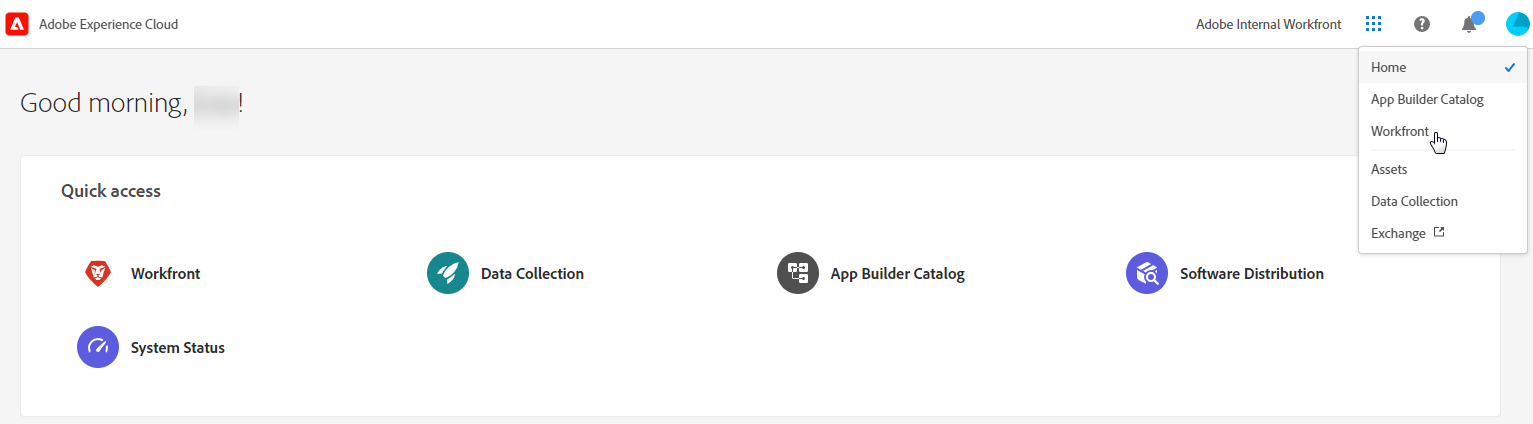
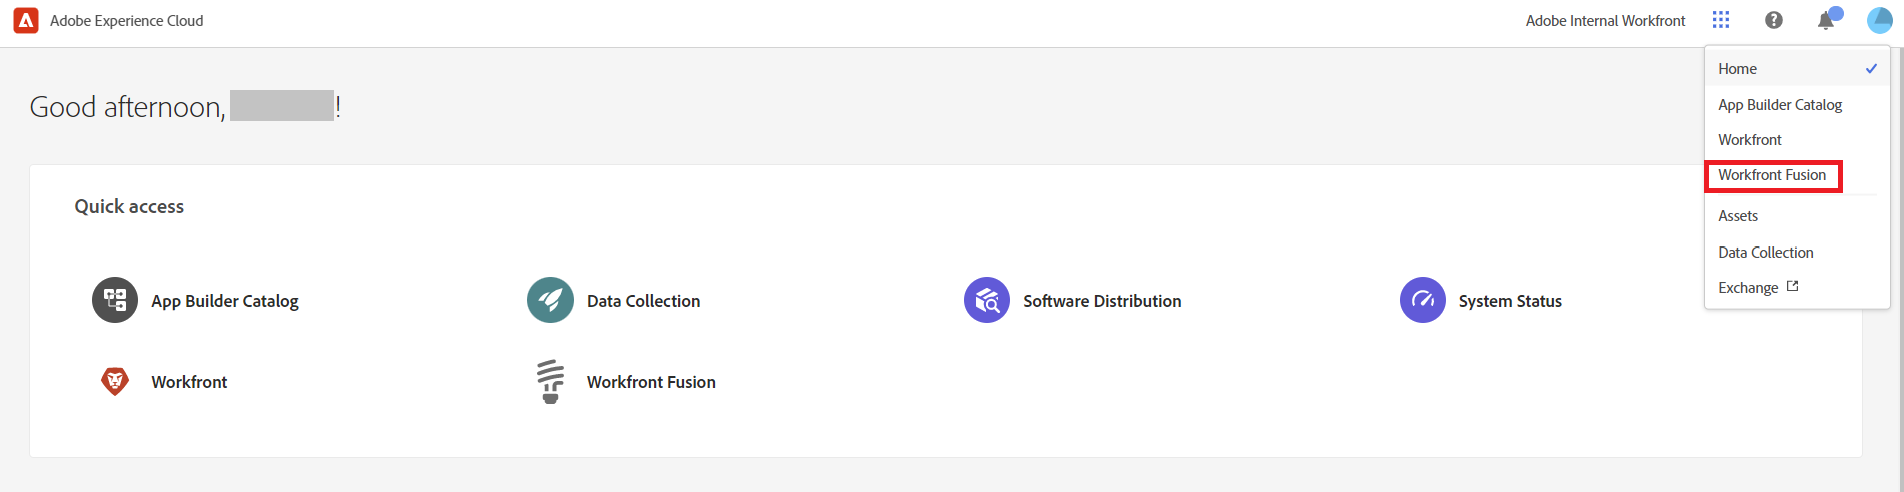
Working on article

diff --git a/help/quicksilver/workfront-fusion/fusion-in-admin-console/fusion-unified-experience.md b/help/quicksilver/workfront-fusion/fusion-in-admin-console/fusion-unified-experience.md
@@ -20,21 +20,28 @@ You must have the following access to perform the steps in this article:
  <col> 
  <tbody> 
   <tr> 
-   <td role="rowheader"><strong>Adobe Workfront plan*</strong></td> 
-   <td> <p>Any</p> </td> 
+   <td role="rowheader">Adobe Workfront plan*</td> 
+   <td> <p>Pro or higher</p> </td> 
+  </tr> 
+  <tr data-mc-conditions=""> 
+   <td role="rowheader">Adobe Workfront license*</td> 
+   <td> <p>Plan, Work</p> </td> 
   </tr> 
   <tr> 
-   <td role="rowheader"><strong>Adobe Workfront license*</strong></td> 
-   <td> <p>Request or higher</p> </td> 
+   <td role="rowheader">Adobe Workfront Fusion license**</td> 
+   <td> <p>Workfront Fusion for Work Automation and Integration </p> <p>Workfront Fusion for Work Automation </p>  </td> 
+  </tr> 
+  <tr> 
+   <td role="rowheader">Product</td> 
+   <td>Your organization must purchase Adobe Workfront Fusion as well as Adobe Workfront to use functionality described in this article.</td> 
   </tr> 
  </tbody> 
 </table>
-
-&#42;To find out what plan, license type, or access you have, contact your Workfront administrator.
+&#42;To find out what plan, license type, or access you have, contact your Workfront Fusion administrator.
 
 ## Prerequisites
 
-Your organization's instance of Workfront must be onboarded to the Adobe Business Platform / Adobe Admin Console.
+Your organization's instance of Workfront Fusion must be onboarded to the Adobe Business Platform / Adobe Admin Console.
 
 ## Log in to Adobe Experience Cloud
 
@@ -45,7 +52,7 @@ Your organization's instance of Workfront must be onboarded to the Adobe Busines
 
 ## Access Workfront Fusion
 
-Once you are logged in to Adobe Experience Cloud, you can view all of the Workfront organizations and environments that you have access to by clicking the organization switcher in the top navigation area. Select the Workfront organization or environment that you want to work in. Environments could include Preview and Sandbox if your organization uses them.
+Once you are logged in to Adobe Experience Cloud, you can view all of the Workfront Fusion organizations and environments that you have access to by clicking the organization switcher in the top navigation area. Select the Workfront Fusion organization or environment that you want to work in. Environments could include Preview and Sandbox if your organization uses them.
 
 ![View Workfront organizations and environments](assets/aec-view-all-orgs.png)
 
@@ -53,9 +60,11 @@ Once you are logged in to Adobe Experience Cloud, you can view all of the Workfr
 >
 >The first time you log in to Adobe Experience Cloud, the organization defaults to the first one in the alphabetical list. The next time you log in, the organization defaults to the last one you visited.
 
-Workfront appears in the list of Adobe Experience Cloud products you have access to. You can choose Workfront in the quick access menu on the Experience Cloud home page, or use the product switcher ![Product switcher](assets/main-menu-icon.png) to change applications at any time.
+Workfront Fusion appears in the list of Adobe Experience Cloud products you have access to. You can choose Workfront in the quick access menu on the Experience Cloud home page, or use the product switcher ![Product switcher](assets/main-menu-icon.png) to change applications at any time.
 
 ![Select Workfront to access the application](assets/aec-product-switcher.png)
+
+<!-- The following info is from Lisa's article and is here so I remember what to put in.
 
 ## Navigate Workfront
 
@@ -65,6 +74,8 @@ Use the Main Menu icon ![](assets/main-menu-icon-left-nav.png) on the left of th
 * **License type**: To learn the default configurations for different license types, see [Understand the navigation for a Review-license user](/help/quicksilver/workfront-basics/navigate-workfront/workfront-navigation/reviewer-global-navigation-bar.md) or [Understand the navigation for a Work-license user](/help/quicksilver/workfront-basics/navigate-workfront/workfront-navigation/worker-global-navigation-bar.md).
 
 ![Main menu](assets/main-menu-options-left-nav.png)
+
+-->
 
 ## Access your profile and preferences
 
